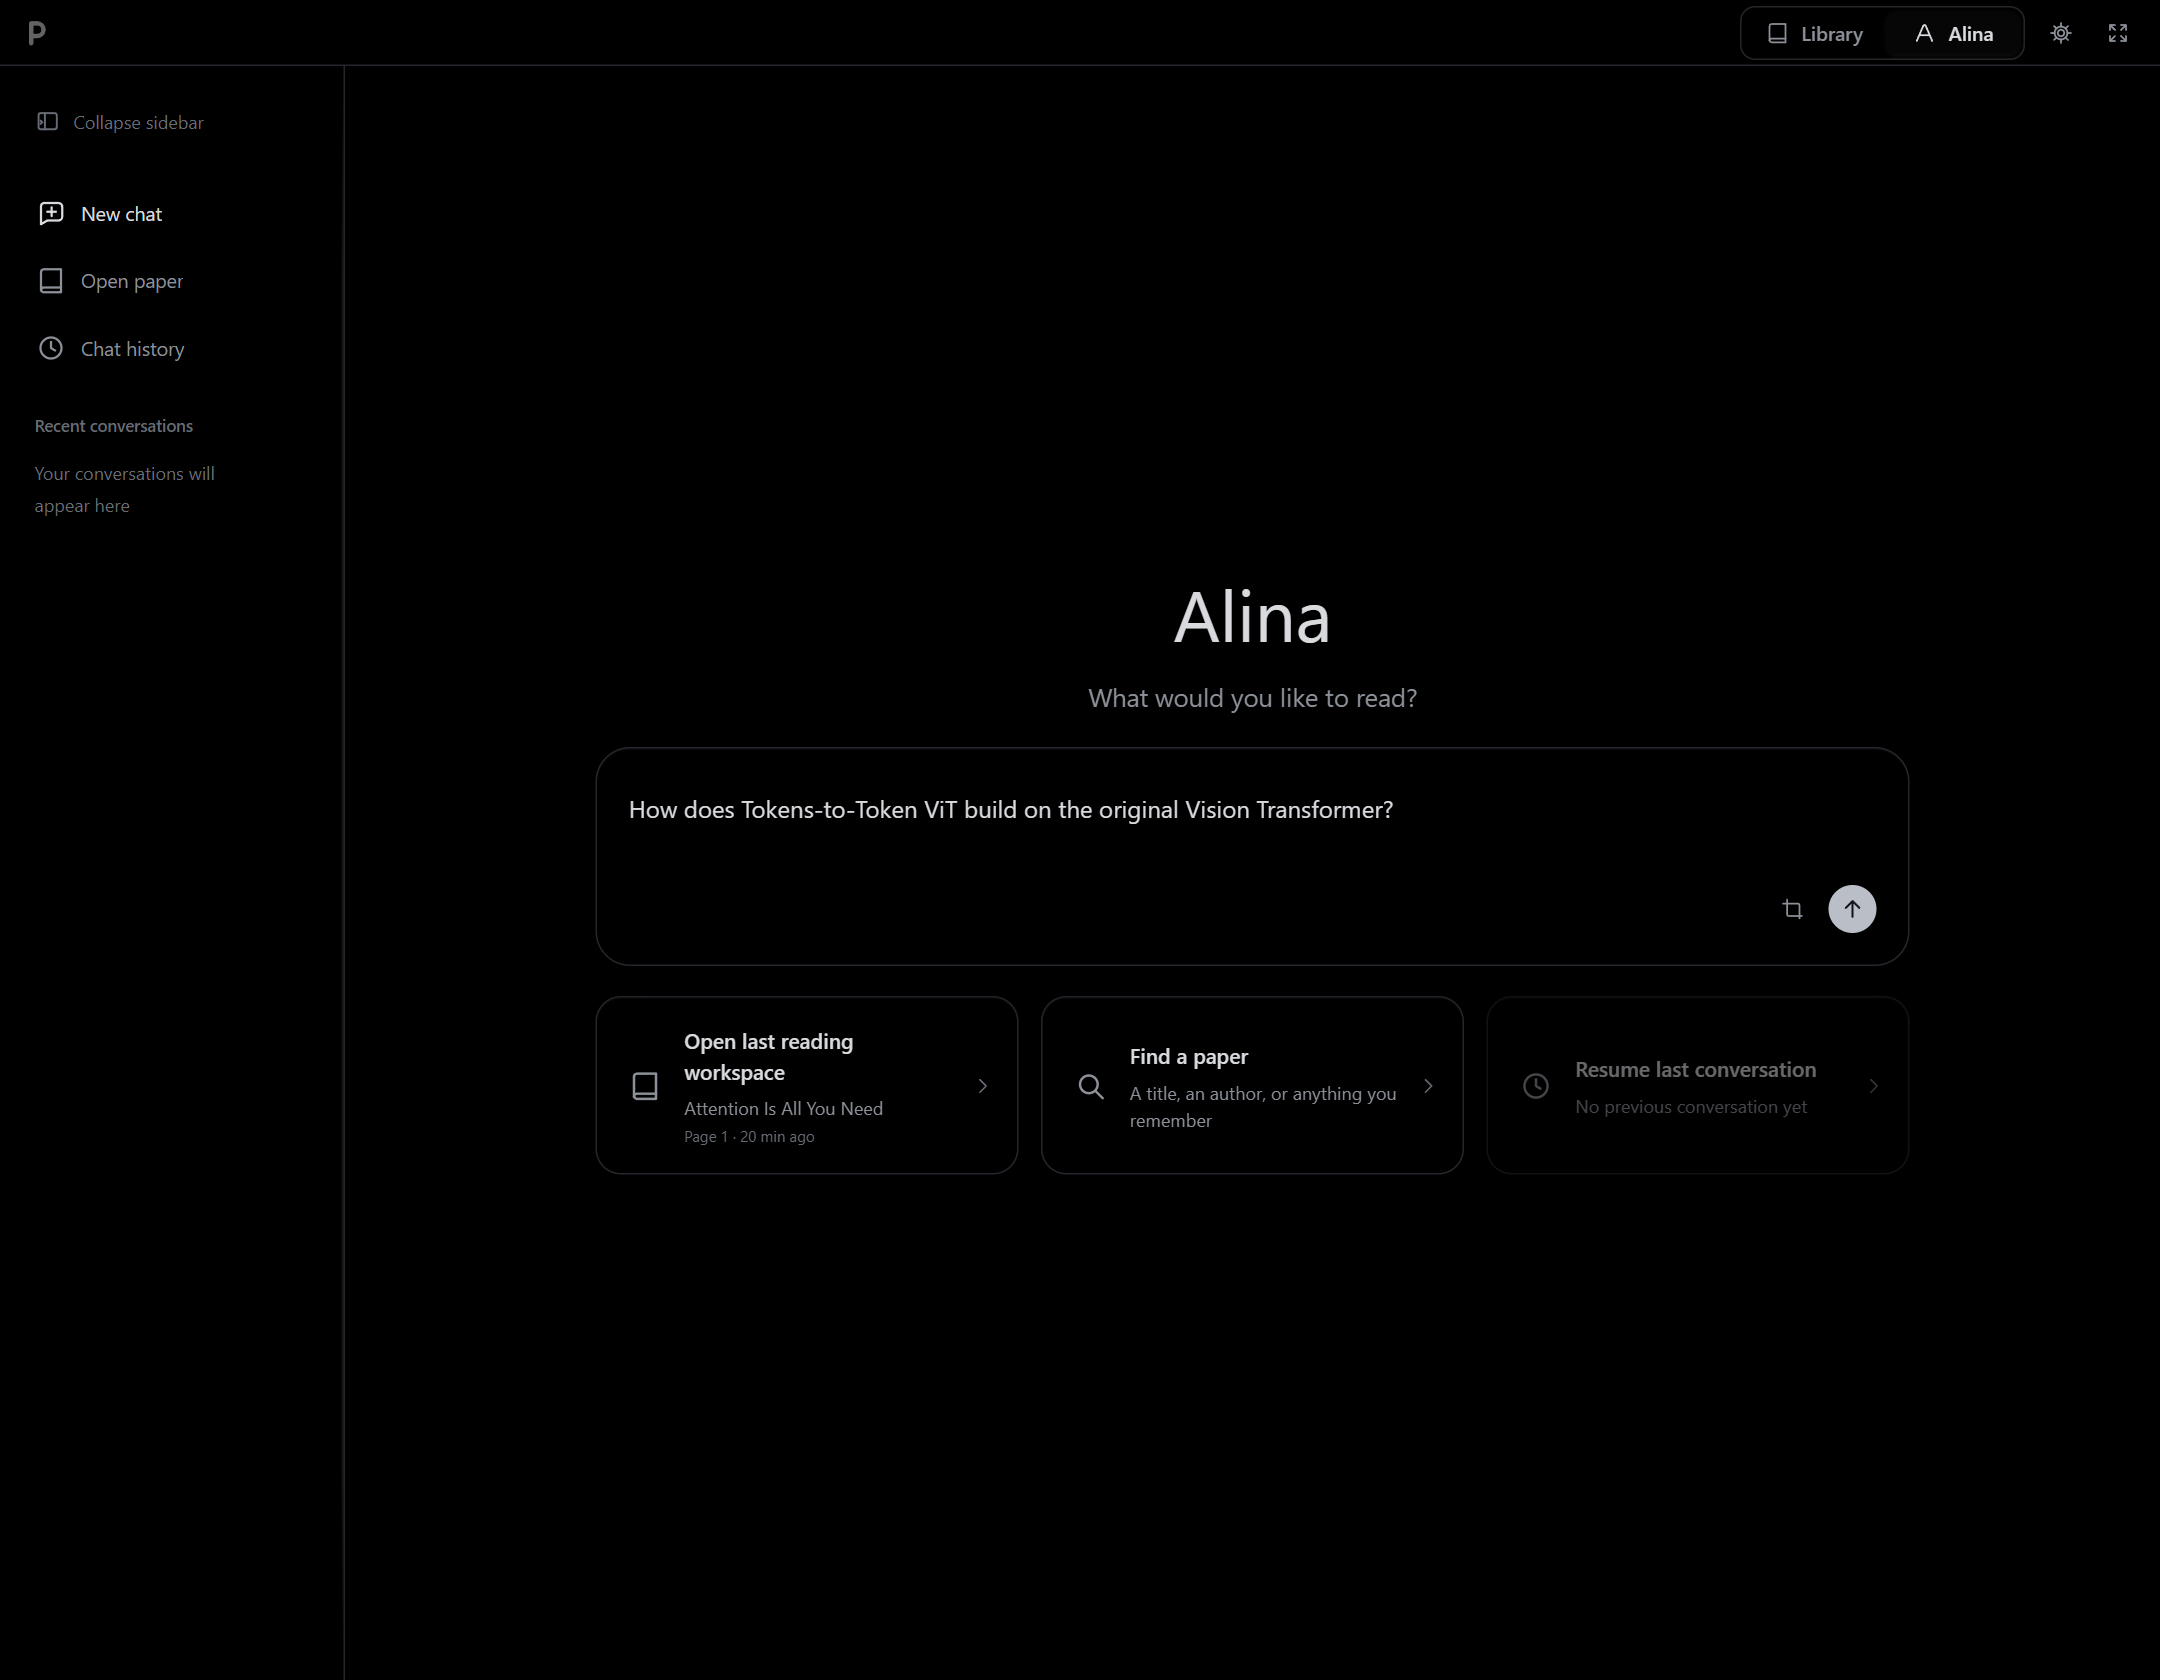
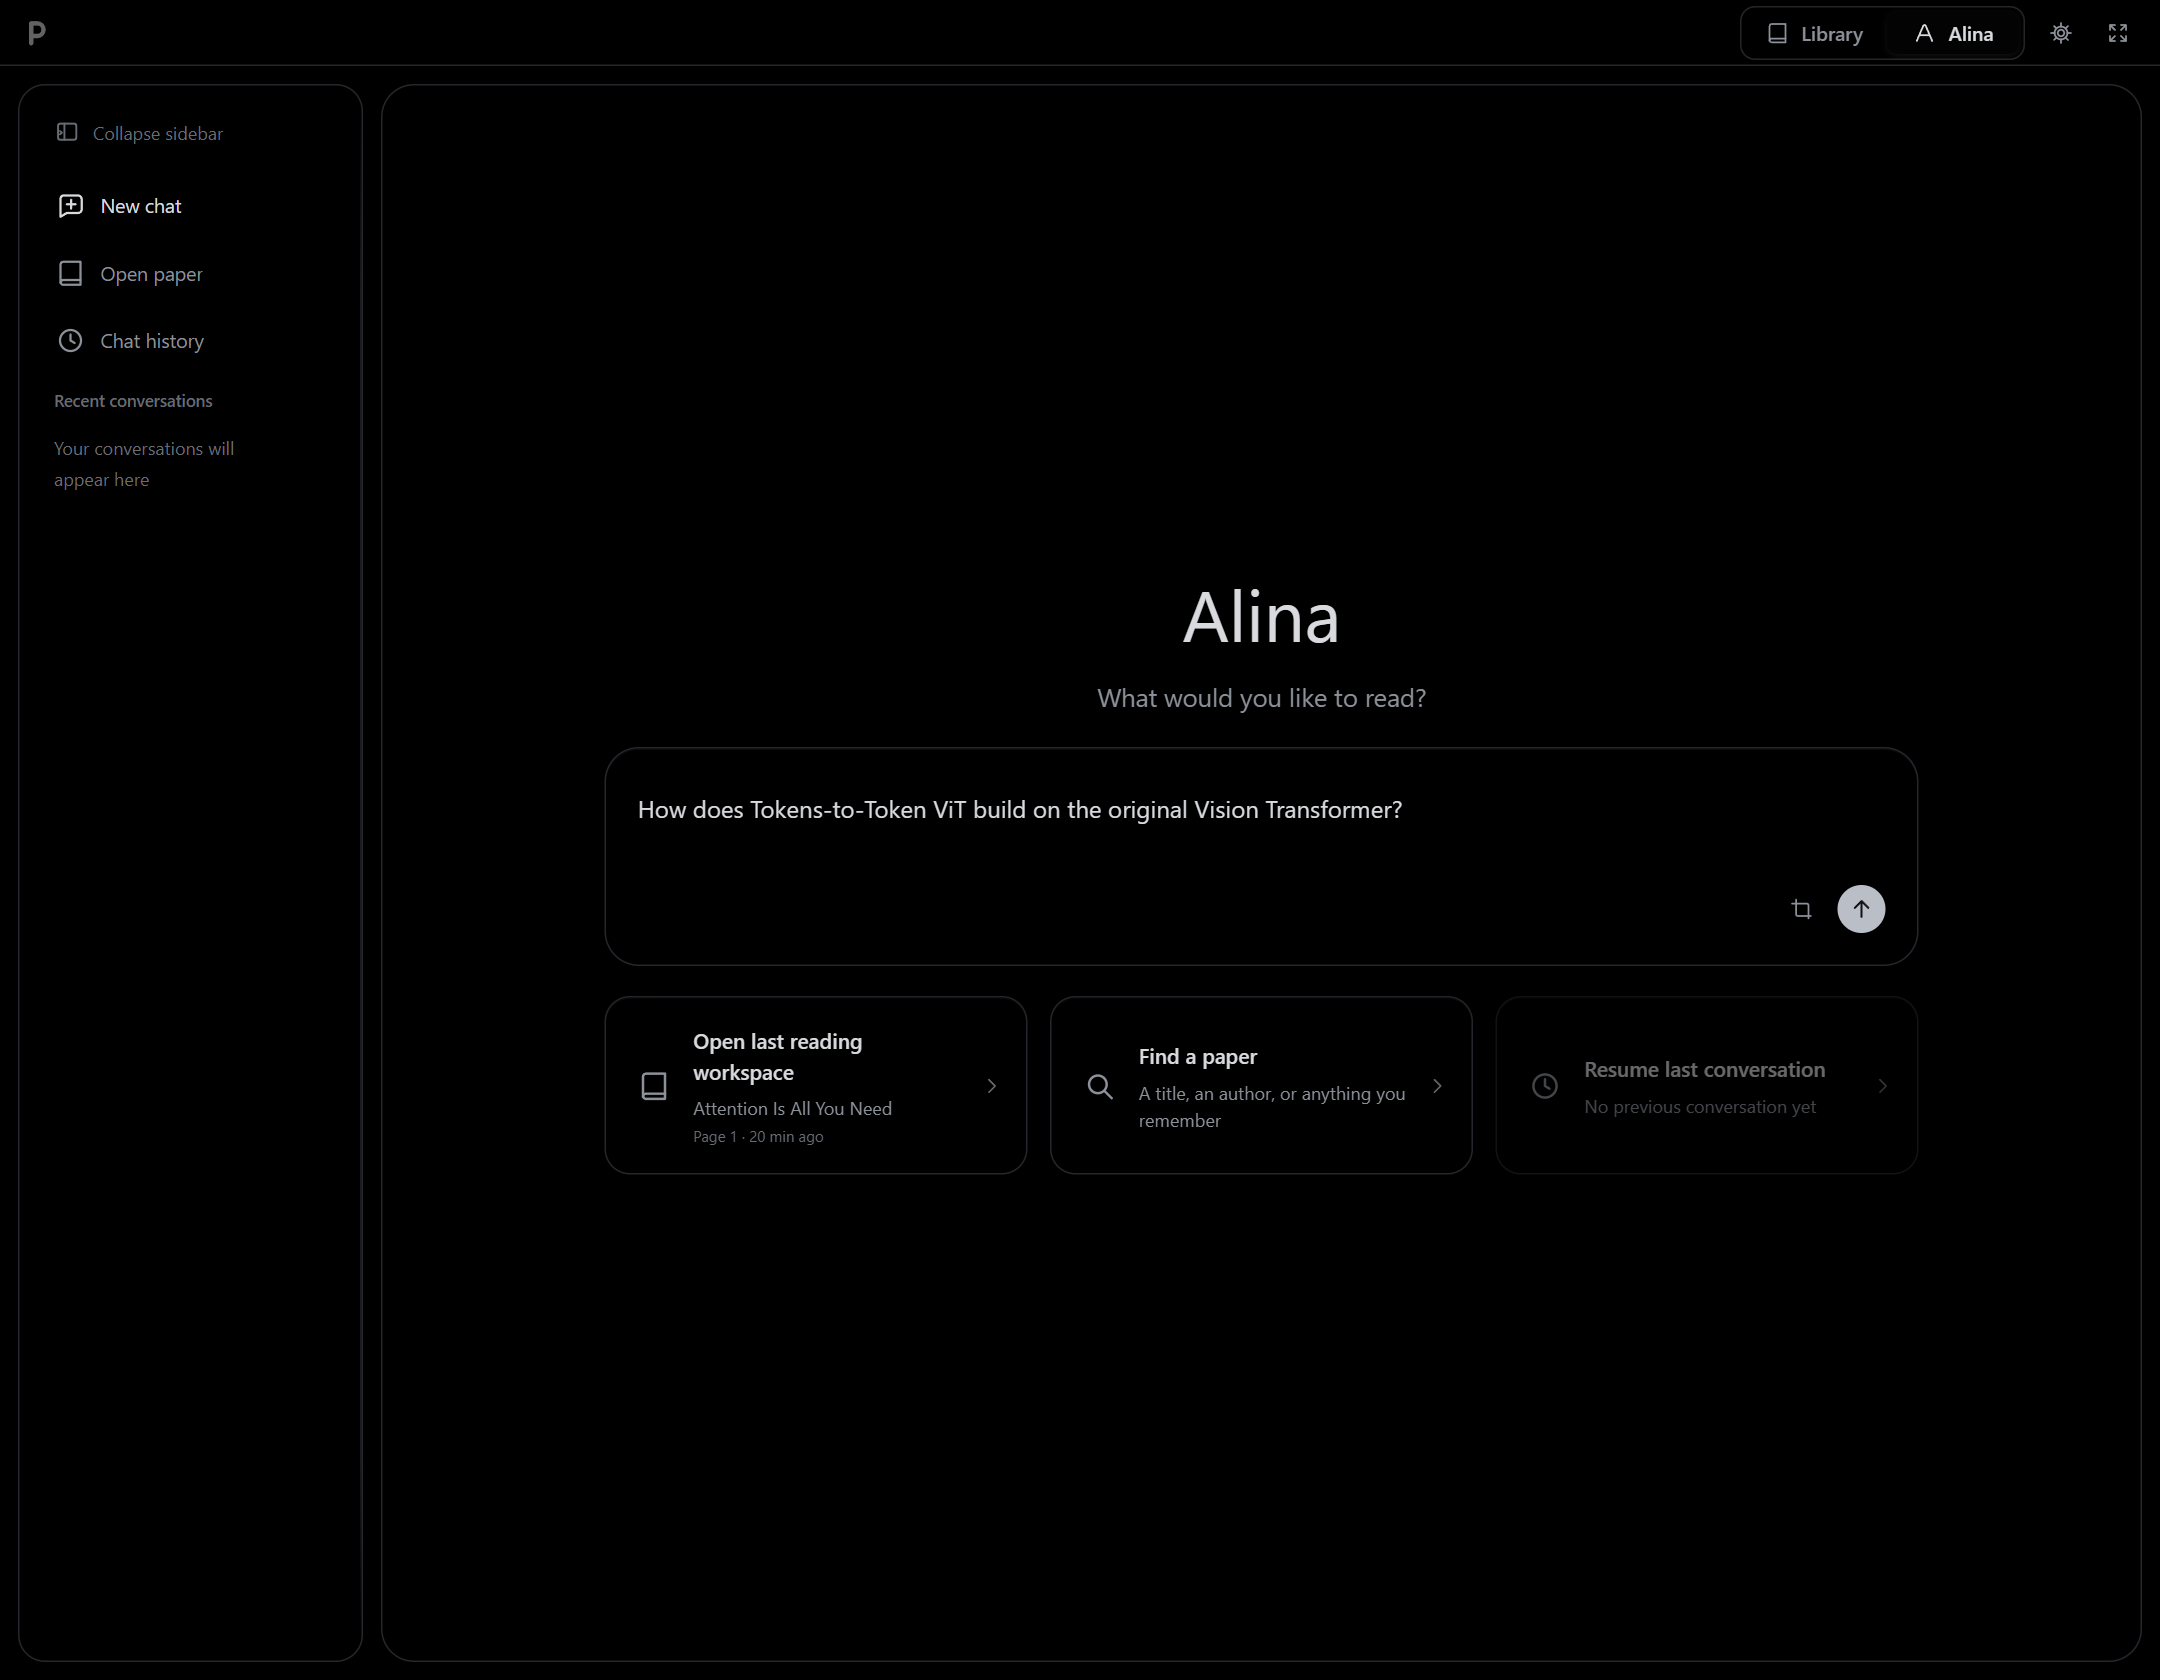
fix: share rounded workspace panels across Library and Alina themes

diff --git a/public/agent-workspace.css b/public/agent-workspace.css
@@ -56,7 +56,9 @@ body.agent-full.agent-nav-collapsed #agentNav .agent-nav-button > span:last-chil
 .agent-nav-session { display: block; width: 100%; min-width: 0; padding: 9px 11px; border: 0; border-radius: 8px; background: transparent; color: var(--fg-dim); font: inherit; font-size: 12px; line-height: 1.5; text-align: left; white-space: nowrap; overflow: hidden; text-overflow: ellipsis; cursor: pointer; }
 .agent-nav-session:hover, .agent-nav-session[aria-current="true"], .agent-nav-session[aria-current="page"] { color: var(--fg); background: color-mix(in srgb, var(--bg-elev) 72%, transparent); }
 .agent-nav-empty { margin: 2px 11px; max-width: 150px; color: var(--fg-faint); font-size: 12px; line-height: 1.8; }
-body:not(.reading) #home .home-content { margin: 0; border: 0; border-radius: 0; box-shadow: none; background: transparent; }
+body:not(.reading) #home { padding: 8px; gap: 8px; }
+body:not(.reading) #home .home-sidebar { border: 1px solid var(--border-strong); border-radius: 18px; }
+body:not(.reading) #home .home-content { margin: 0; border: 1px solid var(--border-strong); border-radius: 22px; }
 body:not(.reading) #home .home-workspace { max-width: 1320px; padding: 34px 48px 30px; }
 body:not(.reading) #home .home-brand, body:not(.reading) #home .home-sidebar-foot { display: none; }
 body:not(.reading) #home .home-head { align-items: center; margin-bottom: 25px; }
@@ -169,7 +171,7 @@ body.agent-full #tabBarMount,
 body.agent-full #main :is(#leftSide, #splitLeft, #railLeft, #railRight, .viewer-wrap, #splitRight, .viewer-foot),
 body.agent-full #topbar :is(#opsBtn, #searchBtn, .topbar-side-controls) { display: none !important; }
 :root body.agent-full #main { height: calc(100vh - var(--topbar-h)); grid-template-rows: minmax(0, 1fr); }
-:root body.agent-full #main > .main-row { padding: 12px; overflow: hidden; }
+:root[data-theme] body.agent-full #main > .main-row { padding: 12px; overflow: hidden; }
 :root body.agent-full #main #rightCols { display: flex; flex: 1 1 auto; width: 100%; min-width: 0; gap: 12px; }
 body.agent-full #rightCols > #rightSide { flex: 1 1 0; width: 0; min-width: 0; zoom: var(--agent-scale, 1); container: agent / inline-size; border: 1px solid color-mix(in srgb, var(--border-strong) 50%, transparent); border-radius: 22px; box-shadow: inset 0 1px 0 color-mix(in srgb, var(--bg-elev) 92%, transparent), 0 8px 26px color-mix(in srgb, var(--fg) 5%, transparent); transition: none; background: linear-gradient(145deg, color-mix(in srgb, var(--bg-elev) 66%, transparent), color-mix(in srgb, var(--bg-elev) 34%, transparent)); backdrop-filter: blur(var(--glass-frost, 24px)); --ai-fs: 16px; --ai-code-fs: 14px; --ai-lh: 1.75; --ai-max-width: 100%; --ai-pad: 0px; --font-reading: var(--font); }
 body.agent-full #agentNav {
@@ -404,7 +406,7 @@ body.agent-full.agent-landing #rightSide[data-sess-view="history"] > #sessHistor
   body:not(.reading) #home .home-card-grid { grid-template-columns: repeat(auto-fill, minmax(min(100%, 156px), 1fr)); gap: 10px; }
 }
 @media (max-width: 700px) {
-  :root body.agent-full #main > .main-row { padding: 8px; }
+  :root[data-theme] body.agent-full #main > .main-row { padding: 8px; }
   :root body.agent-full #main #rightCols { flex-direction: column; gap: 8px; }
   body.agent-full #agentNav, body.agent-full.agent-nav-collapsed #agentNav { flex: 0 0 auto; flex-direction: row; align-items: center; gap: 6px; width: 100%; height: auto; padding: 6px; border-radius: 13px; }
   #agentSidebarToggle { display: none; }
@@ -542,22 +544,6 @@ body.agent-full.agent-landing #rightSide[data-sess-view="history"] > #sessHistor
   background-color: var(--bg-elev);
   box-shadow: 0 8px 22px rgba(0, 0, 0, .24);
 }
-@media (min-width: 701px) {
-  :root[data-theme="dark"] body.agent-full #main > .main-row { padding: 0; }
-  :root[data-theme="dark"] body.agent-full #main #rightCols { gap: 0; }
-  :root[data-theme="dark"] body.agent-full #agentNav {
-    border: 0;
-    border-right: 1px solid #25272c;
-    border-radius: 0;
-    padding: 20px 12px 14px;
-    gap: 24px;
-  }
-  :root[data-theme="dark"] body.agent-full #rightCols > #rightSide {
-    border: 0;
-    border-radius: 0;
-  }
-}
-
 /* The five workspace actions share one visual treatment and screen size. */
 .workspace-action {
   display: inline-flex; align-items: center; justify-content: center; flex: 0 0 auto;
